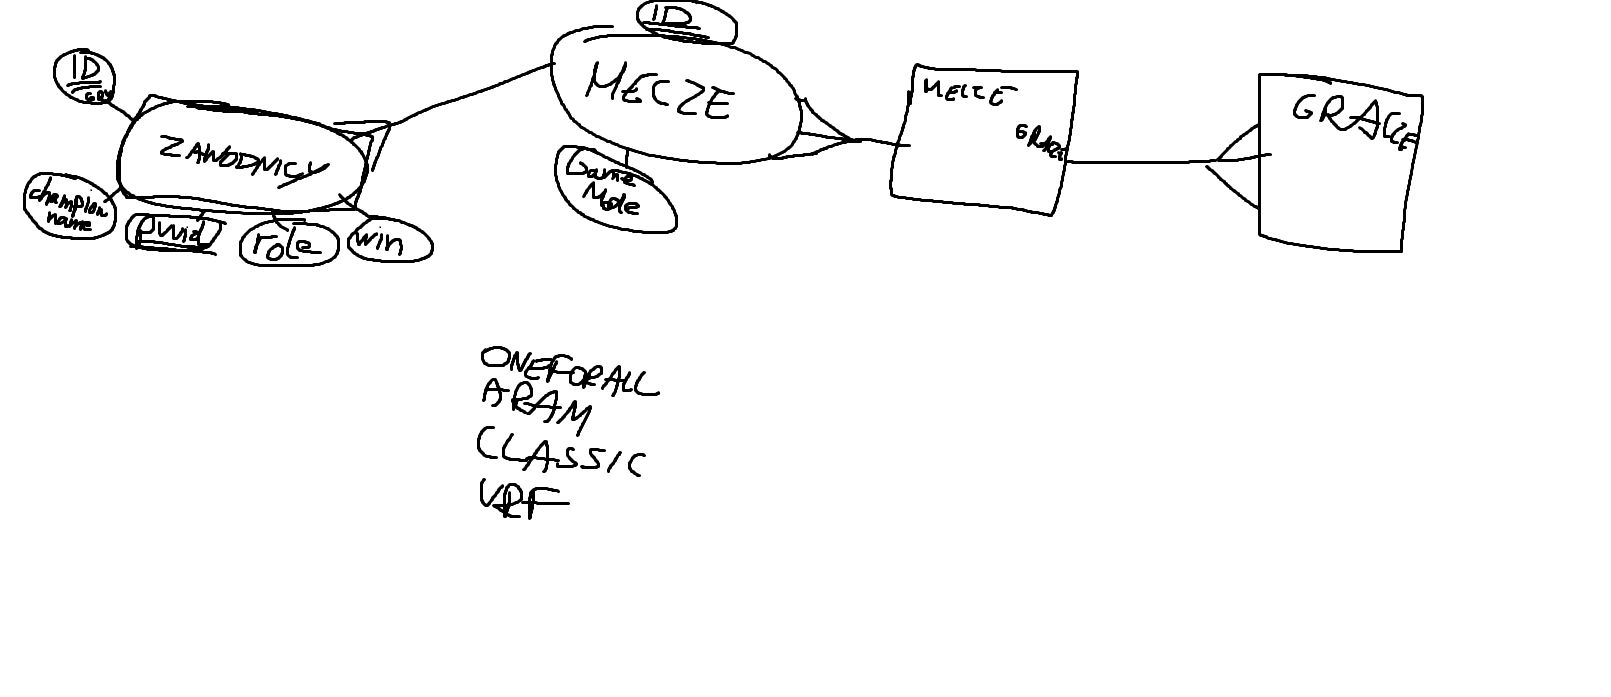
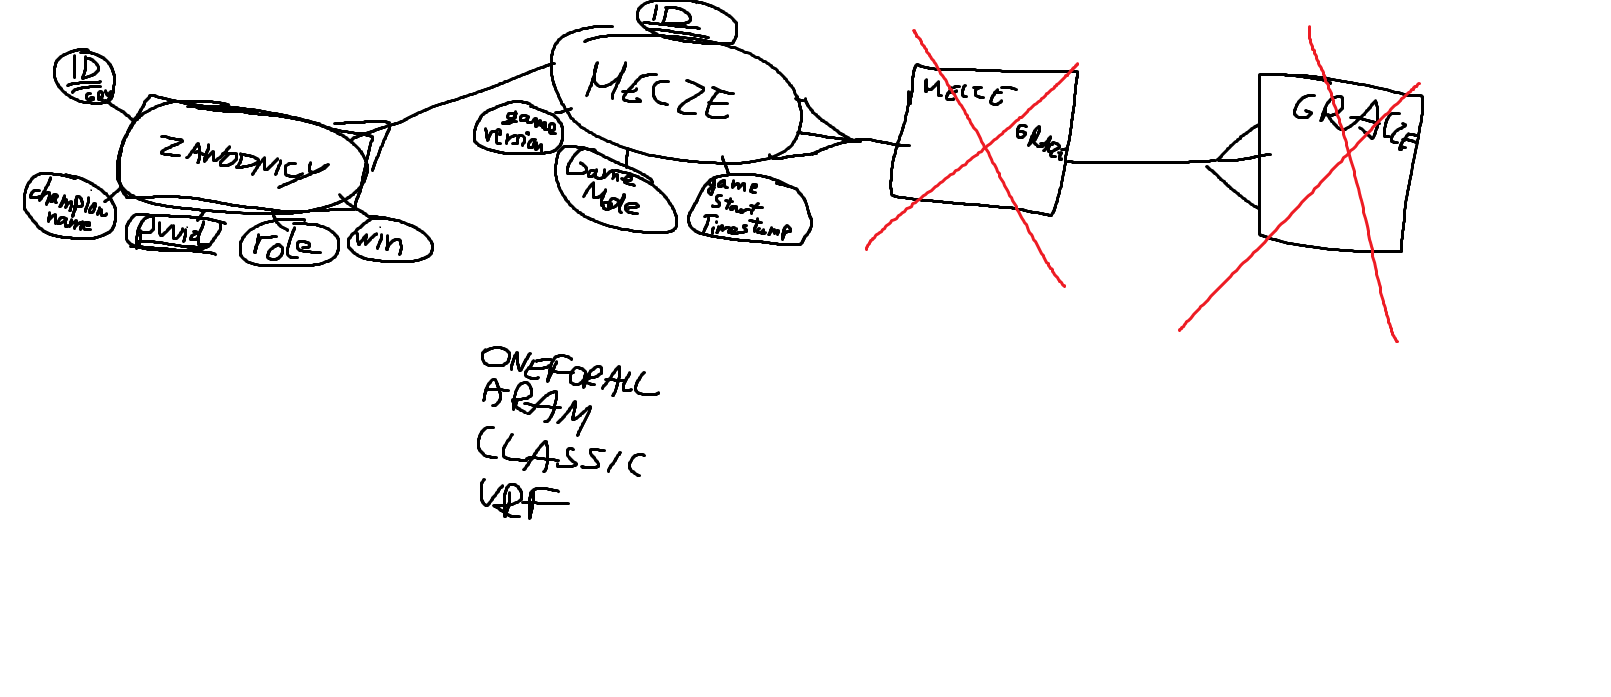
Added data base scripts
Scripts can perform:
- create
- upload games
- download (from Riot servers) and upload players' rank

diff --git a/GetRankByPuuid.py b/GetRankByPuuid.py
@@ -1,0 +1,119 @@
+import requests
+import time
+import os
+import json
+import psycopg2
+from getpass import getpass
+
+DATA_BASE_NAME = "lolmatches1"
+USERNAME = "postgres"
+
+databasePassword = getpass("Password for user " + USERNAME + ": ")
+
+dbConnection = psycopg2.connect(
+	host = "localhost",
+	database = DATA_BASE_NAME,
+	user = USERNAME,
+	password = databasePassword
+	#port = 5432 #- default
+)
+dbCursor = dbConnection.cursor()
+
+UPDATE_SQL = "UPDATE players SET id = %s, solorank = %s, flexrank = %s WHERE puuid = %s"
+# Getting the token
+
+SLEEP_503 = 120
+SLEEP_429 = 60
+TOKEN_ENVIRON_NAME = "X-Riot-Token"
+token = ""
+
+if "X-Riot-Token" in os.environ:
+	token = os.environ[TOKEN_ENVIRON_NAME]
+else:
+	print("No Riot token available")
+	exit()
+
+with open("GetRankNumber.txt", 'r') as f:
+	rankNumber = int(f.readline())
+
+
+sleepTime = 120/100 + 0.1         # 100 every 2 minutes is max
+head = {"X-Riot-Token": token}
+
+with open("PlayersWithRank.txt", 'r') as f:
+	for i in range(rankNumber):
+		f.readline()
+	for line in f:
+		puuid = line.strip()
+		if len(puuid) < 70:
+			print("BOT detected, skipping the entry")
+			continue
+		print("Downloading id for " + puuid)
+		accountURL = f"https://eun1.api.riotgames.com/lol/summoner/v4/summoners/by-puuid/{puuid}"
+
+		while True:		
+			time.sleep(sleepTime)	
+			r1 = requests.get(accountURL, headers = head)
+			if r1.status_code != 200:
+				print("Request failed, status code: " + str(r1.status_code))
+
+				if r1.status_code == 503:
+					print("Error 503 - service unavailable. Sleeping " + str(SLEEP_503) + " seconds")
+					time.sleep(SLEEP_503)
+				else:
+					if r1.status_code == 429:
+						print("Error 429 - Rate Limit Exceeded. Sleeping " + str(SLEEP_429) + " seconds")
+						time.sleep(SLEEP_429)
+					else:
+						break
+			else:
+				break
+		if r1.status_code != 200:
+			break
+
+		accountData = r1.json()
+		id = accountData["id"]
+		
+		print("Downloading ranked info for  " + puuid)
+		rankURL = f"https://eun1.api.riotgames.com/lol/league/v4/entries/by-summoner/{id}"
+
+		while True:		
+			time.sleep(sleepTime)	
+			r1 = requests.get(rankURL, headers = head)
+			if r1.status_code != 200:
+				print("Request failed, status code: " + str(r1.status_code))
+
+				if r1.status_code == 503:
+					print("Error 503 - service unavailable. Sleeping " + str(SLEEP_503) + " seconds")
+					time.sleep(SLEEP_503)
+				else:
+					if r1.status_code == 429:
+						print("Error 429 - Rate Limit Exceeded. Sleeping " + str(SLEEP_429) + " seconds")
+						time.sleep(SLEEP_429)
+					else:
+						break
+			else:
+				break
+		if r1.status_code != 200:
+			break
+
+		rankData = r1.json()
+		flexRank = ""
+		soloRank = ""
+
+		for rank in rankData:
+			if rank["queueType"] == "RANKED_SOLO_5x5":
+				soloRank = rank["tier"] + " " + rank["rank"]
+			else:
+				flexRank = rank["tier"] + " " + rank["rank"]
+
+
+		dbCursor.execute(UPDATE_SQL, (id, soloRank, flexRank, puuid))
+		
+		rankNumber += 1
+		with open("GetRankNumber.txt", 'w') as f:
+			f.write(str(rankNumber))
+		dbConnection.commit()
+
+dbCursor.close()
+dbConnection.close()

diff --git a/DataBaseLoadData.py b/DataBaseLoadData.py
@@ -1,0 +1,93 @@
+import psycopg2
+from getpass import getpass
+import json
+import time
+
+DATA_BASE_NAME = "lolmatches1"
+USERNAME = "postgres"
+
+databasePassword = getpass("Password for user " + USERNAME + ": ")
+
+dbConnection = psycopg2.connect(
+	host = "localhost",
+	database = DATA_BASE_NAME,
+	user = USERNAME,
+	password = databasePassword
+	#port = 5432 #- default
+)
+
+dbCursor = dbConnection.cursor()
+SQL_MATCHES = "INSERT INTO matches VALUES(%s, %s, %s, %s)"
+SQL_PLAYERS = "INSERT INTO players VALUES(%s)"
+SQL_MP      = """INSERT INTO match_player VALUES(%s, %s, %s, %s, %s)"""
+
+COMMIT_NUMBER = 500
+i = 0
+index = 0
+with open("DataBaseMatchNumber.txt", 'r') as f:
+	index = int(f.readline().strip())
+
+
+with open("MatchData.txt", 'r') as f:
+	for i in range(index):
+		f.readline()
+	i = 0
+	for line in f:
+
+		if i == COMMIT_NUMBER:
+			print("Commiting games from " + str(index) + " to " + str(index + i) + "...", end=" ")
+			dbConnection.commit()
+			index += i
+			
+			with open("DataBaseMatchNumber.txt", 'w') as f:
+				f.write(str(index))
+			print("Success!")
+			i = 0
+
+		gameDictionary = json.loads(line.strip())
+		i += 1
+		matchId = gameDictionary["metadata"]["matchId"]
+		gameVersion = gameDictionary["info"]["gameVersion"]
+		gameMode = gameDictionary["info"]["gameMode"]
+		gameStartTimestamp = str(gameDictionary["info"]["gameStartTimestamp"])
+
+		dbCursor.execute("SELECT matchId FROM matches WHERE matchId='" + matchId + "'")
+		res = dbCursor.fetchone()
+		if res != None:
+			continue
+
+		dbCursor.execute(SQL_MATCHES, (matchId, gameVersion, gameMode, gameStartTimestamp))
+
+		for participant in gameDictionary["info"]["participants"]:
+			puuid = participant["puuid"]
+			championName = participant["championName"]
+			teamPosition = participant["teamPosition"]
+			win = participant["win"]
+			isBot = False
+
+			if puuid == "BOT":
+				puuid = puuid + "-" + matchId + "-" + championName
+				isBot = True
+
+			#check if player already exists
+			dbCursor.execute("SELECT puuid FROM players WHERE puuid='" + puuid + "'")
+			res = dbCursor.fetchone()
+			if res == None:
+				dbCursor.execute(SQL_PLAYERS, (puuid,))
+			else:
+				if isBot:
+					puuid = puuid + "-1"
+					dbCursor.execute(SQL_PLAYERS, (puuid,))
+
+			dbCursor.execute(SQL_MP, (matchId, puuid, championName, teamPosition, win))
+
+
+print("Commiting games from " + str(index) + " to " + str(index + i) + "...", end=" ")
+dbConnection.commit()
+index += i
+with open("DataBaseMatchNumber.txt", 'w') as f:
+	f.write(str(index))
+print("Success!")
+
+dbCursor.close()
+dbConnection.close()

diff --git a/DataBaseCreate.py b/DataBaseCreate.py
@@ -1,0 +1,54 @@
+import psycopg2
+from getpass import getpass
+
+DATA_BASE_NAME = "lolmatches1"
+USERNAME = "postgres"
+
+databasePassword = getpass("Password for user " + USERNAME + ": ")
+
+dbConnection = psycopg2.connect(
+	host = "localhost",
+	database = DATA_BASE_NAME,
+	user = USERNAME,
+	password = databasePassword
+	#port = 5432 #- default
+)
+
+dbCursor = dbConnection.cursor()
+
+commands = (
+"""
+CREATE TABLE matches (
+	matchId varchar(50) NOT NULL PRIMARY KEY,
+	gameVersion varchar(50) NOT NULL,
+	gameMode varchar(50) NOT NULL,
+	gameStartTimestamp varchar(50) NOT NULL
+)
+""",
+"""
+CREATE TABLE players (
+	puuid varchar(100) NOT NULL PRIMARY KEY,
+	id varchar(100),
+	soloRank varchar(50),
+	flexRank varchar(50)
+)
+""",
+"""
+CREATE TABLE match_player (
+	matchId varchar(50) NOT NULL,
+	puuid varchar(100) NOT NULL,
+	championName varchar(50) NOT NULL,
+	teamPosition varchar(50) NOT NULL,
+	win boolean NOT NULL,
+	PRIMARY KEY(matchId, puuid),
+	CONSTRAINT fk_matchId FOREIGN KEY(matchId) REFERENCES matches(matchId),
+	CONSTRAINT fk_puuid FOREIGN KEY(puuid) REFERENCES players(puuid)
+)
+""")
+
+for command in commands:
+	dbCursor.execute(command)
+
+dbCursor.close()
+dbConnection.commit()
+dbConnection.close()
